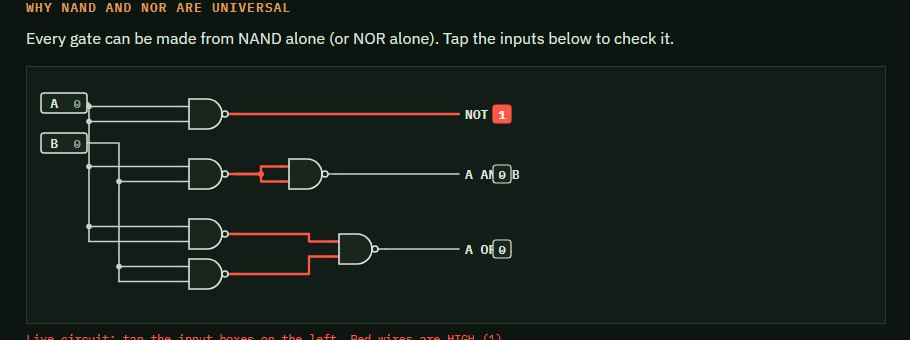
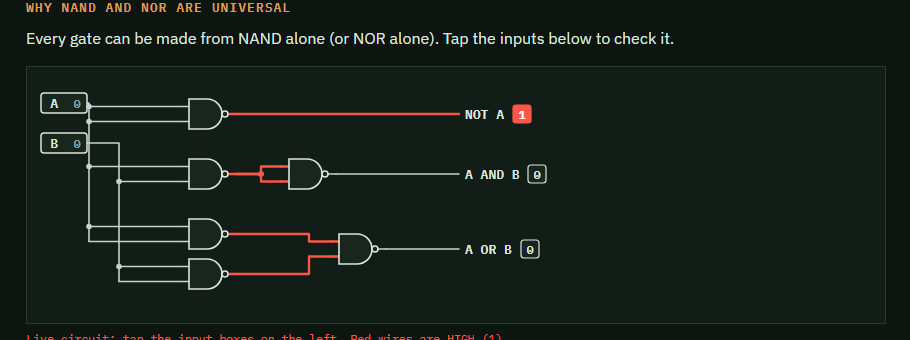
Fix overlapping output labels in universal-gates circuit; set GitHub username
The live value boxes were drawn at a fixed offset, covering longer labels
like "A AND B" and "A OR B". The offset now grows with label length.
Short labels (Y, S, Cout...) keep their old position.

Changed region(s): [[0.5231, 0.4706, 0.6154, 0.5588], [0.5231, 0.7059, 0.6154, 0.7647], [0.5231, 0.2941, 0.5846, 0.3824]]

diff --git a/index.html b/index.html
@@ -108,7 +108,7 @@ footer{margin-top:56px;padding-top:18px;border-top:1px solid var(--rule);font-si
 <div class="wrap">
 
   <div class="topbar">
-    <a class="btn" href="https://github.com/YOUR-USERNAME/hw-lab-companion">★ GitHub</a>
+    <a class="btn" href="https://github.com/fitcoder-shoaib/hw-lab-companion">★ GitHub</a>
     <button class="btn" id="theme" type="button" aria-label="Toggle light or dark theme">◐ Theme</button>
   </div>
 
@@ -206,11 +206,11 @@ footer{margin-top:56px;padding-top:18px;border-top:1px solid var(--rule);font-si
     </table>
   </div>
 
-  <div class="note"><b>Heads up:</b> this is a student-made study aid, not the official lab manual. Circuits and pin numbers follow standard TTL datasheets, but your lab's manual and your faculty have the final word. Spot a mistake? <a href="https://github.com/YOUR-USERNAME/hw-lab-companion/issues/new/choose">Report it here</a>.</div>
+  <div class="note"><b>Heads up:</b> this is a student-made study aid, not the official lab manual. Circuits and pin numbers follow standard TTL datasheets, but your lab's manual and your faculty have the final word. Spot a mistake? <a href="https://github.com/fitcoder-shoaib/hw-lab-companion/issues/new/choose">Report it here</a>.</div>
 
   <footer>
     <span>Made by a senior, for juniors. Good luck in the lab.</span>
-    <span><a href="https://github.com/YOUR-USERNAME/hw-lab-companion">Source on GitHub</a> · MIT License</span>
+    <span><a href="https://github.com/fitcoder-shoaib/hw-lab-companion">Source on GitHub</a> · MIT License</span>
   </footer>
 </div>
 <script>

diff --git a/guides/exam-guide.html b/guides/exam-guide.html
@@ -421,8 +421,10 @@ HW.circuit = function(spec, vals){
     pd.text(x2 + 6, g.out[1] + 4.5, lab(o.n), { cls: 'tl' });
     if (live) {
       const v = V[o.src];
-      pd.add('<rect class="vb ' + (v ? 'on' : '') + '" x="' + (x2 + 34) + '" y="' + (g.out[1] - 9) + '" width="18" height="18" rx="3"/>');
-      pd.text(x2 + 43, g.out[1] + 4.5, String(v), { cls: 'vt ' + (v ? 'on' : ''), a: 'middle' });
+      // push the value box past long labels like "A AND B" so it doesn't cover them
+      const len = String(o.n).replace(/'/g, '').length, bx = x2 + (len <= 4 ? 34 : Math.round(16 + len * 7.6));
+      pd.add('<rect class="vb ' + (v ? 'on' : '') + '" x="' + bx + '" y="' + (g.out[1] - 9) + '" width="18" height="18" rx="3"/>');
+      pd.text(bx + 9, g.out[1] + 4.5, String(v), { cls: 'vt ' + (v ? 'on' : ''), a: 'middle' });
     }
     if (o.note) pd.text(x2 + 6, g.out[1] + 18, o.note, { cls: 'tn' });
   });

diff --git a/README.md b/README.md
@@ -5,7 +5,7 @@
 **A free, open study kit for the Digital Hardware Lab.**
 Exam guide · viva flashcards · interactive 4×3 RAM simulator. All 12 experiments. Runs in any browser.
 
-[![Open the site](https://img.shields.io/badge/▶_Open_the_site-63C88E?style=for-the-badge&labelColor=0D1511)](https://YOUR-USERNAME.github.io/hw-lab-companion/)
+[![Open the site](https://img.shields.io/badge/▶_Open_the_site-63C88E?style=for-the-badge&labelColor=0D1511)](https://fitcoder-shoaib.github.io/hw-lab-companion/)
 [![Experiments](https://img.shields.io/badge/experiments-12-DE9B56?style=for-the-badge&labelColor=0D1511)](#-experiments-covered)
 [![No install](https://img.shields.io/badge/install-none-93A59A?style=for-the-badge&labelColor=0D1511)](#-how-to-use-it)
 [![License: MIT](https://img.shields.io/badge/license-MIT-93A59A?style=for-the-badge&labelColor=0D1511)](LICENSE)
@@ -46,14 +46,14 @@ I made these tools while preparing for my own lab exam, and I'm leaving them her
 
 ## 🚀 How to use it
 
-**Option 1: online (easiest).** Open **https://YOUR-USERNAME.github.io/hw-lab-companion/** and pick a tool.
+**Option 1: online (easiest).** Open **https://fitcoder-shoaib.github.io/hw-lab-companion/** and pick a tool.
 
 **Option 2: offline.** Click the green **Code** button → **Download ZIP**, unzip it, and double-click `index.html`.
 
 **Option 3: clone it.**
 
 ```bash
-git clone https://github.com/YOUR-USERNAME/hw-lab-companion.git
+git clone https://github.com/fitcoder-shoaib/hw-lab-companion.git
 ```
 
 > [!TIP]
@@ -103,7 +103,7 @@ flowchart LR
 - Cover analog electronics, microprocessors or HDL (Verilog/VHDL). Those may come later. See the [roadmap](#-roadmap).
 
 > [!IMPORTANT]
-> This is a student-made study aid. Pin numbers and circuits follow standard TTL datasheets, but **your lab manual and your faculty always have the final word**. If something here disagrees with your manual, trust the manual and [tell us](https://github.com/YOUR-USERNAME/hw-lab-companion/issues/new/choose).
+> This is a student-made study aid. Pin numbers and circuits follow standard TTL datasheets, but **your lab manual and your faculty always have the final word**. If something here disagrees with your manual, trust the manual and [tell us](https://github.com/fitcoder-shoaib/hw-lab-companion/issues/new/choose).
 
 ## 🗂 Repository layout
 
@@ -139,8 +139,8 @@ Want to build one of these? See below.
 
 Juniors, this is yours now too. Found a wrong pin number, a typo, or a viva question that came up in your exam? Please add it.
 
-- 🐞 **Spotted a mistake?** [Open a "content error" issue](https://github.com/YOUR-USERNAME/hw-lab-companion/issues/new/choose). Takes one minute.
-- 💡 **Have an idea?** [Suggest a feature](https://github.com/YOUR-USERNAME/hw-lab-companion/issues/new/choose).
+- 🐞 **Spotted a mistake?** [Open a "content error" issue](https://github.com/fitcoder-shoaib/hw-lab-companion/issues/new/choose). Takes one minute.
+- 💡 **Have an idea?** [Suggest a feature](https://github.com/fitcoder-shoaib/hw-lab-companion/issues/new/choose).
 - 🛠 **Want to fix it yourself?** Read [CONTRIBUTING.md](CONTRIBUTING.md). Editing is just opening an HTML file in a text editor.
 
 If this helped you, **leave a ⭐**. It helps the next batch find it.
